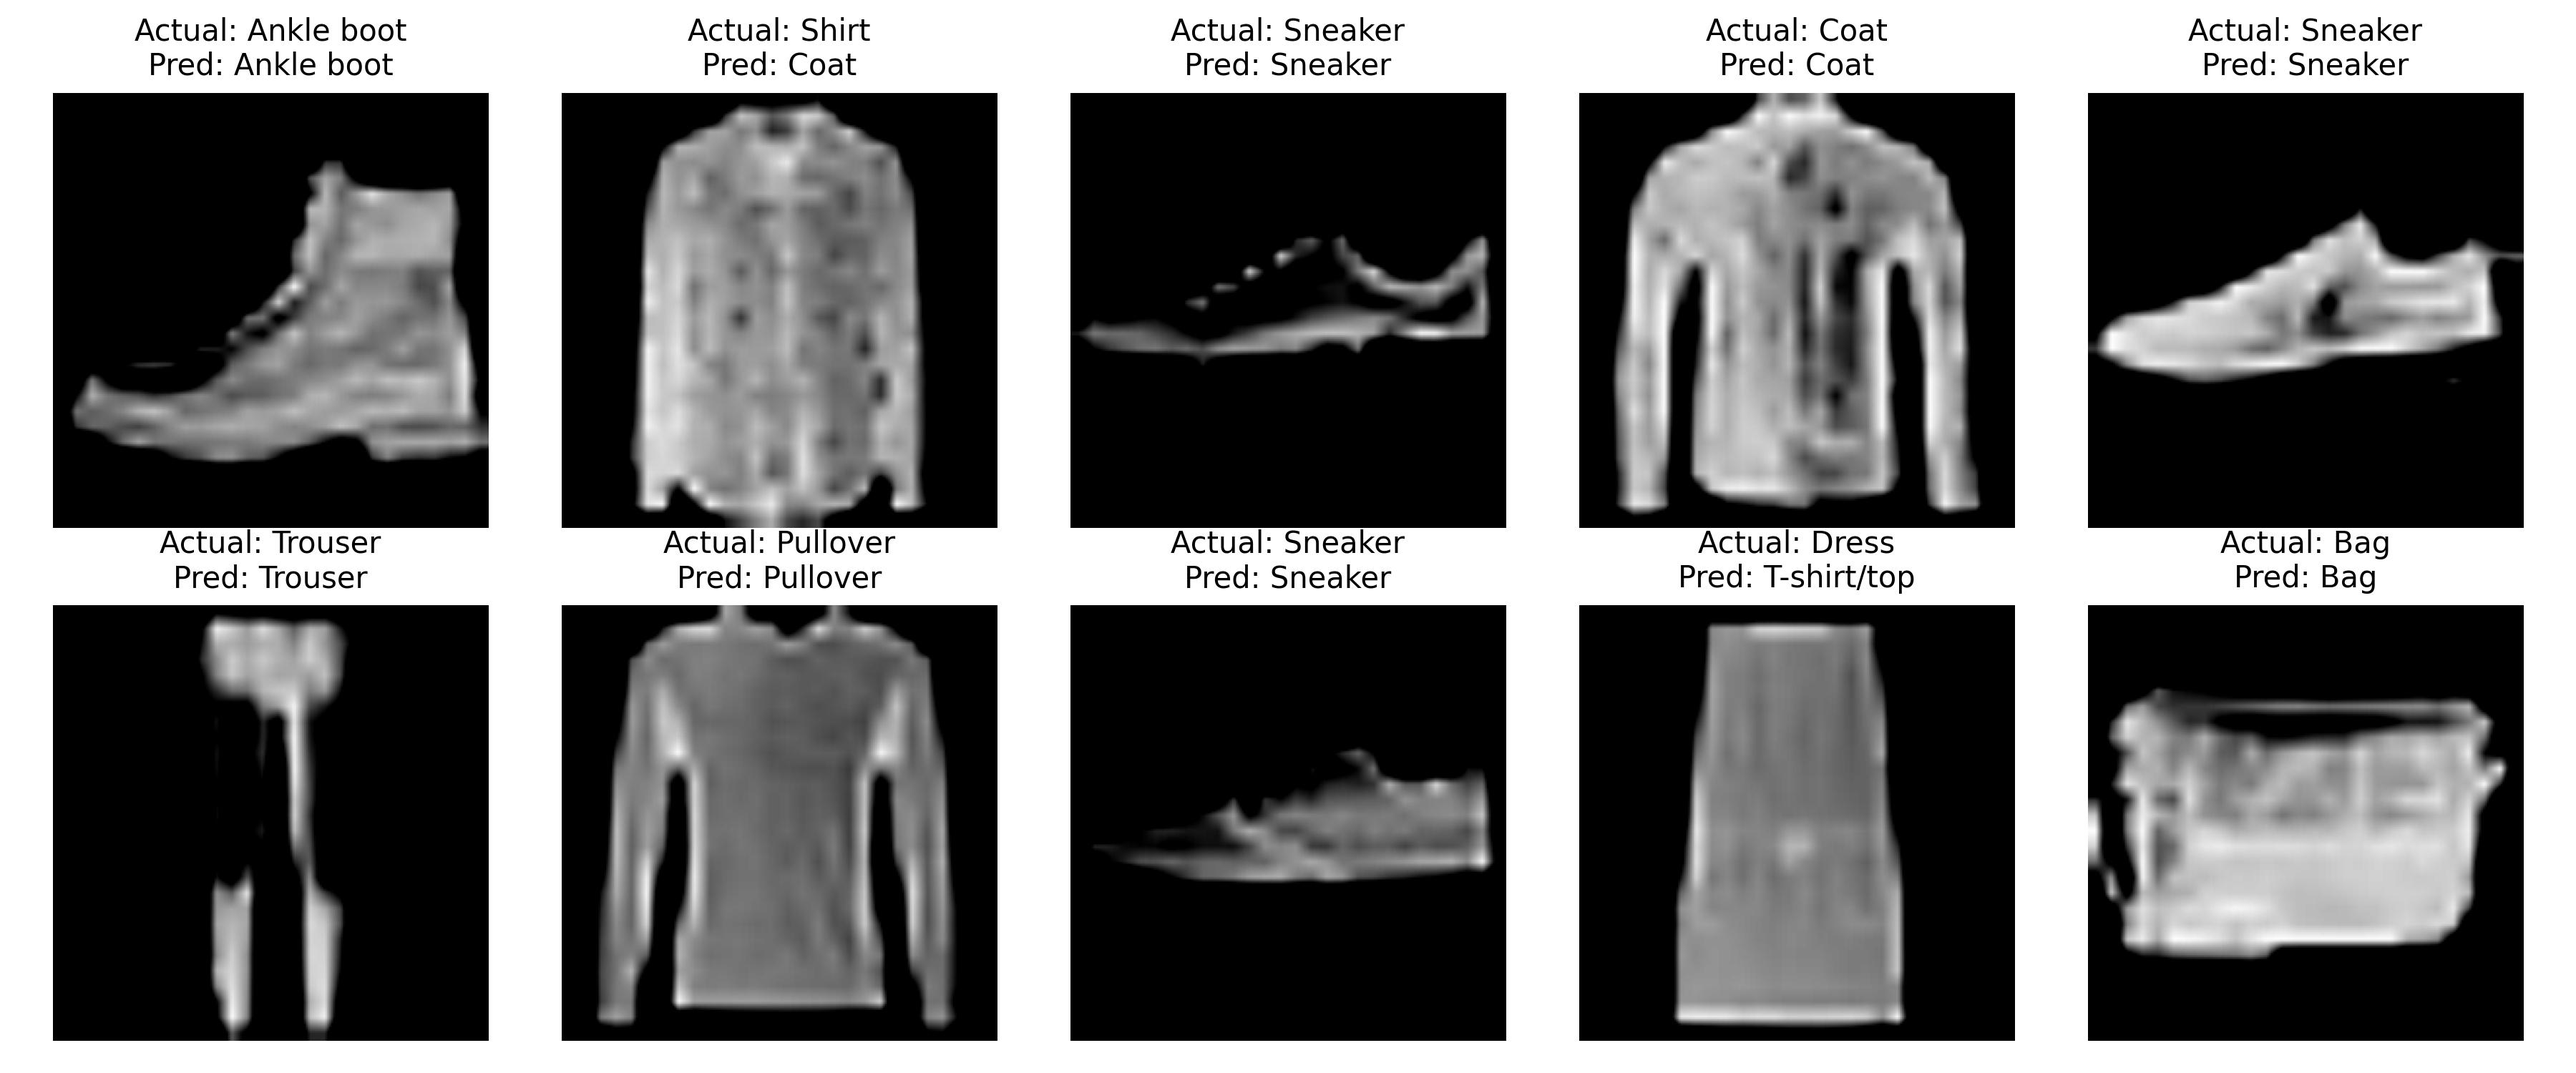
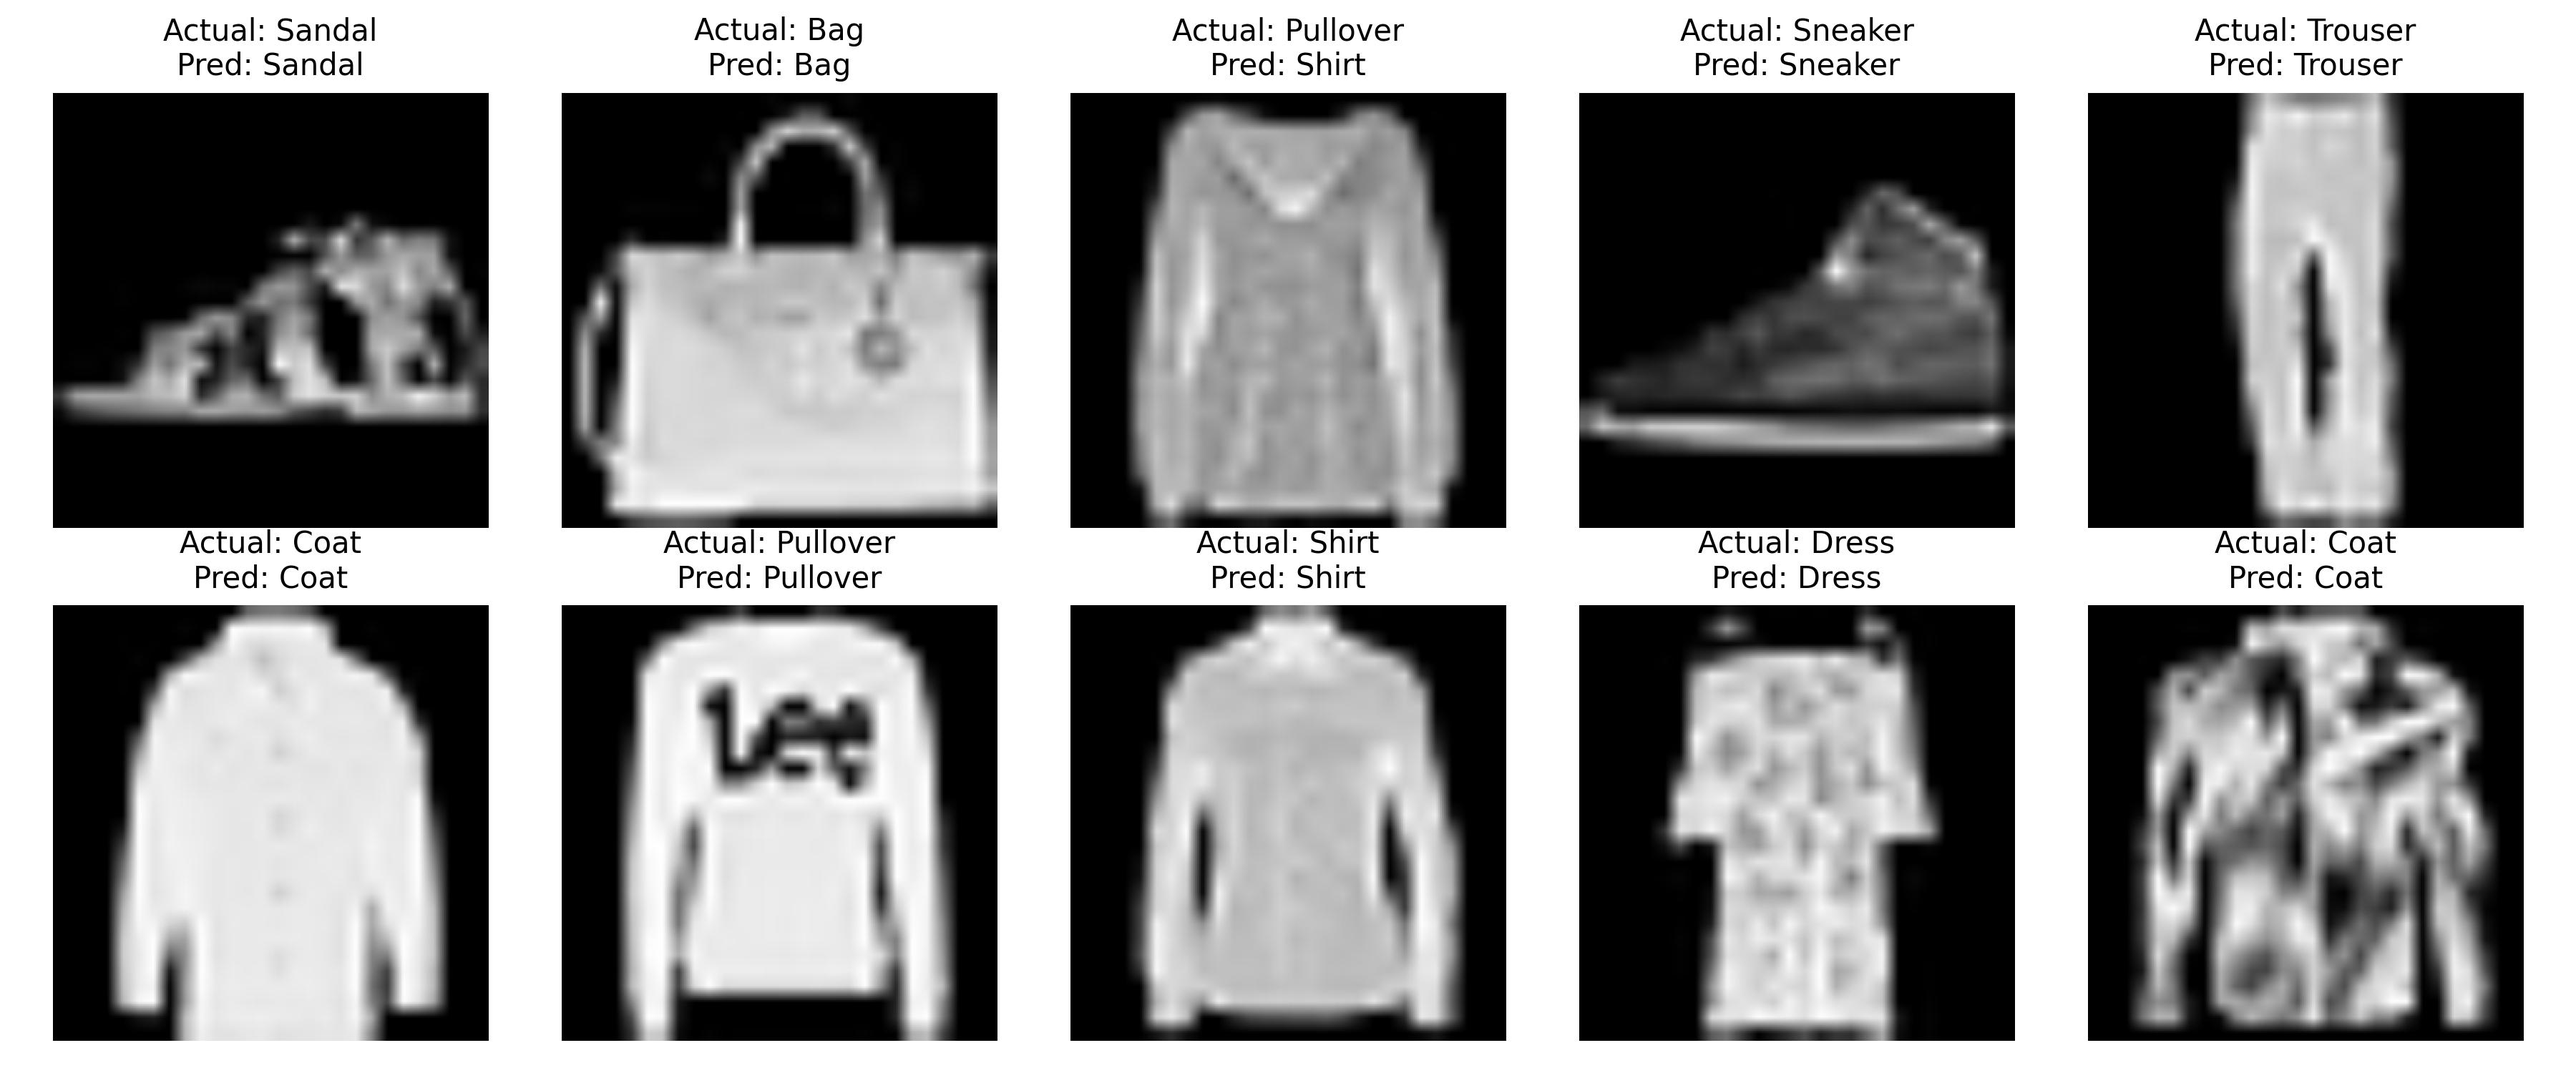
minor fixes and mods to code

diff --git a/src/utils.py b/src/utils.py
@@ -263,14 +263,50 @@ def collate_results_into_pandas(results_list, hyperparameters, train_numerical_r
     })
     return results_list
 
+# def plot_random_predictions(model, test_loader, device, class_names, figSaveTag, figSaveDir, num_images=10):
+#     """Plots random test images with their actual and predicted labels.
+
+#     Args:
+#         model (torch.nn.Module): Trained model.
+#         test_loader (torch.utils.data.DataLoader): Dataloader for testing.
+#         device (torch.device): Device (CPU/GPU).
+#         class_names (list): List of class names.
+#         num_images (int): Number of images to display.
+#     """
+#     model.eval()
+#     images, labels = next(iter(test_loader))
+#     images, labels = images.to(device), labels.to(device)
+
+#     # Select random indices
+#     indices = torch.randperm(images.size(0))[:num_images]
+#     images, labels = images[indices], labels[indices]
+
+#     with torch.no_grad():
+#         outputs = model(images)
+#         _, preds = torch.max(outputs, 1)  # Get predicted classes
+
+#     # Plot images
+#     fig, axes = plt.subplots(2, 5, figsize=(12, 5))
+#     axes = axes.flatten()
+#     for i in range(num_images):
+#         img = images[i].cpu().squeeze().permute(1, 2, 0)  # Move channels to last dimension
+#         axes[i].imshow(img, cmap='gray')
+#         axes[i].set_title(f"Actual: {class_names[labels[i]]}\nPred: {class_names[preds[i]]}", fontsize=10)
+#         axes[i].axis('off')
+
+#     plt.tight_layout()
+#     # plt.title(f"Actual vs Predicted Labels: {figSaveTag}")
+#     plt.savefig(f"{figSaveDir}/actual_vs_pred_examples_{figSaveTag}.jpg",dpi=300)
 def plot_random_predictions(model, test_loader, device, class_names, figSaveTag, figSaveDir, num_images=10):
-    """Plots random test images with their actual and predicted labels.
+    """Plots random test images with their actual and predicted labels after unnormalizing.
 
     Args:
         model (torch.nn.Module): Trained model.
         test_loader (torch.utils.data.DataLoader): Dataloader for testing.
         device (torch.device): Device (CPU/GPU).
         class_names (list): List of class names.
+        figSaveTag (str): Tag for saving the figure.
+        figSaveDir (str): Directory to save the figure.
         num_images (int): Number of images to display.
     """
     model.eval()
@@ -285,15 +321,18 @@ def plot_random_predictions(model, test_loader, device, class_names, figSaveTag,
         outputs = model(images)
         _, preds = torch.max(outputs, 1)  # Get predicted classes
 
+    # Unnormalize images
+    images = images * 0.5 + 0.5  # Reverse normalization
+
     # Plot images
     fig, axes = plt.subplots(2, 5, figsize=(12, 5))
     axes = axes.flatten()
     for i in range(num_images):
-        img = images[i].cpu().squeeze().permute(1, 2, 0)  # Move channels to last dimension
-        axes[i].imshow(img, cmap='gray')
+        img = images[i].cpu().permute(1, 2, 0).numpy()  # Convert to NumPy and move channels
+
+        axes[i].imshow(img)  # No need for cmap='gray' since we restored RGB
         axes[i].set_title(f"Actual: {class_names[labels[i]]}\nPred: {class_names[preds[i]]}", fontsize=10)
         axes[i].axis('off')
 
     plt.tight_layout()
-    # plt.title(f"Actual vs Predicted Labels: {figSaveTag}")
-    plt.savefig(f"{figSaveDir}/actual_vs_pred_examples_{figSaveTag}.jpg",dpi=300)
+    plt.savefig(f"{figSaveDir}/actual_vs_pred_examples_{figSaveTag}.jpg", dpi=300)

diff --git a/src/pretrained_models.py b/src/pretrained_models.py
@@ -208,8 +208,8 @@ results_list = []
 # optim_names = ['Adam','SGD']
 
 lst_of_models = ['ResNet50']
-pretrained = [ True]
-whether_to_finetune = [True]
+pretrained = [True]
+whether_to_finetune = [True, False]
 optim_names = ['Adam']
 
 for model_name in lst_of_models:
